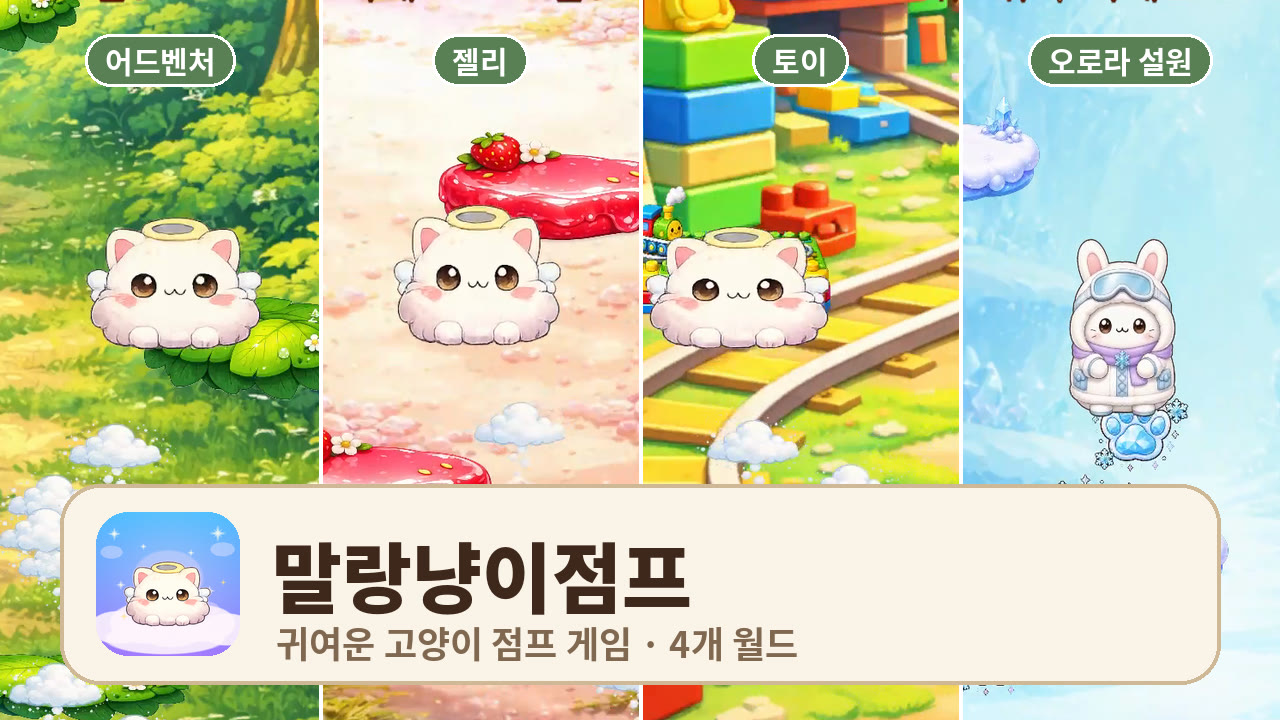
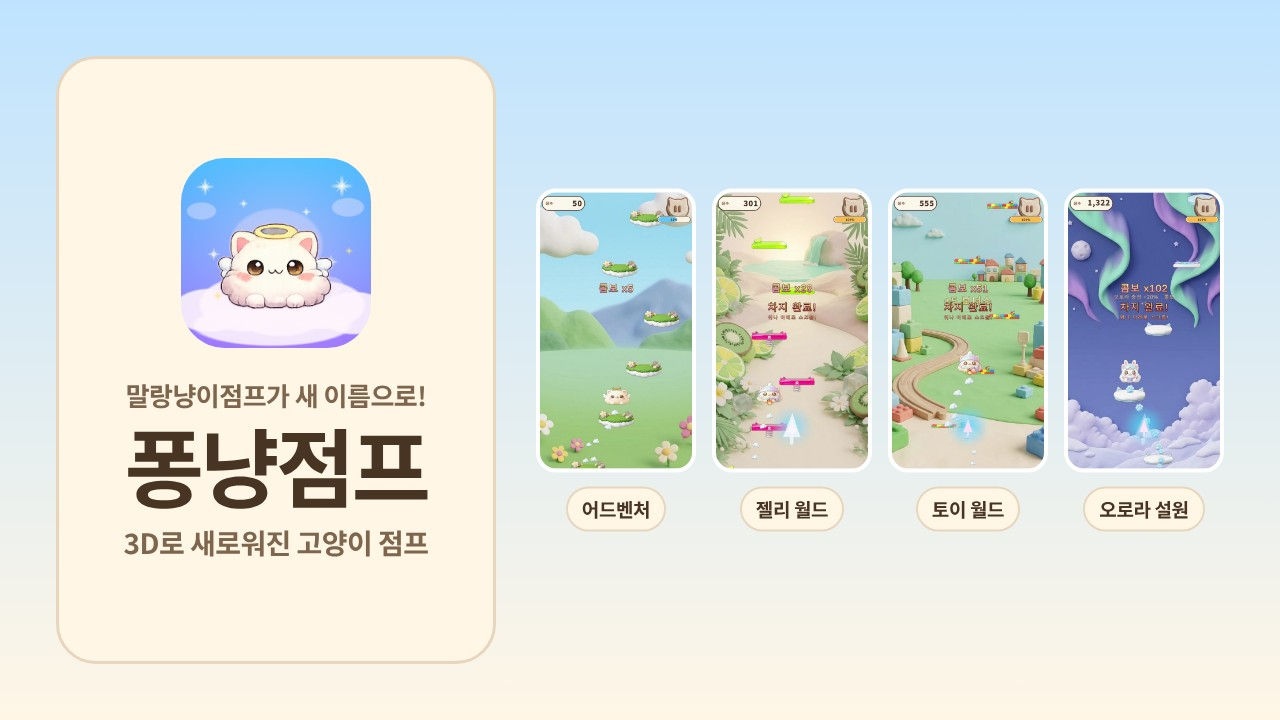
영상: 점프 영상 페이지를 새 퐁냥점프 3D 쇼츠로 교체
- ko/en 점프 영상 페이지: 유튜브 쇼츠 o-6-vdPpx-8, 21초, 새 자막·설명(구 말랑냥이점프 표기)
- VideoObject·동영상 사이트맵 갱신, 썸네일 교체

Claude-Session: https://claude.ai/code/session_019pTac98sTYAaayXRuKgjjD

diff --git a/ko/videos/malangnyang-jump/index.html b/ko/videos/malangnyang-jump/index.html
@@ -9,26 +9,26 @@
   </script>
   <meta name="viewport" content="width=device-width, initial-scale=1.0" />
   <title>귀여운 고양이 점프 게임 | 퐁냥점프 4개 월드 플레이 영상</title>
-  <meta name="description" content="귀여운 고양이 점프 게임 &#x27;퐁냥점프&#x27;의 20초 플레이 영상입니다. 좌우 터치만으로 구름 발판을 밟으며 하늘 높이 올라가고, 어드벤처 · 젤리 · 토이 · 오로라 설원 4개 월드에서 콤보를 이어 최고 기록에 도전합니다." />
+  <meta name="description" content="귀여운 고양이 점프 게임 &#x27;퐁냥점프&#x27;(구 말랑냥이점프)의 21초 플레이 영상입니다. 3D로 새로워진 고양이와 함께 좌우 터치만으로 구름 발판을 밟으며 하늘 높이 올라가고, 어드벤처 · 젤리 · 토이 · 오로라 설원 4개 월드에서 콤보를 이어 최고 기록에 도전합니다." />
   <link rel="canonical" href="https://pangchustudio.co.kr/ko/videos/malangnyang-jump/" />
   <link rel="alternate" hreflang="x-default" href="https://pangchustudio.co.kr/videos/malangnyang-jump/" />
   <link rel="alternate" hreflang="en" href="https://pangchustudio.co.kr/videos/malangnyang-jump/" />
   <link rel="alternate" hreflang="ko" href="https://pangchustudio.co.kr/ko/videos/malangnyang-jump/" />
   <meta property="og:type" content="video.other" />
   <meta property="og:title" content="귀여운 고양이 점프 게임 | 퐁냥점프 4개 월드 플레이 영상" />
-  <meta property="og:description" content="귀여운 고양이 점프 게임 &#x27;퐁냥점프&#x27;의 20초 플레이 영상입니다. 좌우 터치만으로 구름 발판을 밟으며 하늘 높이 올라가고, 어드벤처 · 젤리 · 토이 · 오로라 설원 4개 월드에서 콤보를 이어 최고 기록에 도전합니다." />
+  <meta property="og:description" content="귀여운 고양이 점프 게임 &#x27;퐁냥점프&#x27;(구 말랑냥이점프)의 21초 플레이 영상입니다. 3D로 새로워진 고양이와 함께 좌우 터치만으로 구름 발판을 밟으며 하늘 높이 올라가고, 어드벤처 · 젤리 · 토이 · 오로라 설원 4개 월드에서 콤보를 이어 최고 기록에 도전합니다." />
   <meta property="og:url" content="https://pangchustudio.co.kr/ko/videos/malangnyang-jump/" />
   <meta property="og:image" content="https://pangchustudio.co.kr/images/videos/malangnyang-jump-shorts.jpg" />
   <meta property="og:image:width" content="1280" />
   <meta property="og:image:height" content="720" />
-  <meta property="og:video" content="https://www.youtube.com/embed/fKoPnAqLzOQ" />
+  <meta property="og:video" content="https://www.youtube.com/embed/o-6-vdPpx-8" />
   <meta property="og:locale" content="ko_KR" />
   <meta property="og:site_name" content="PangChu Studio" />
   <meta name="twitter:card" content="player" />
   <meta name="twitter:title" content="귀여운 고양이 점프 게임 | 퐁냥점프 4개 월드 플레이 영상" />
-  <meta name="twitter:description" content="귀여운 고양이 점프 게임 &#x27;퐁냥점프&#x27;의 20초 플레이 영상입니다. 좌우 터치만으로 구름 발판을 밟으며 하늘 높이 올라가고, 어드벤처 · 젤리 · 토이 · 오로라 설원 4개 월드에서 콤보를 이어 최고 기록에 도전합니다." />
+  <meta name="twitter:description" content="귀여운 고양이 점프 게임 &#x27;퐁냥점프&#x27;(구 말랑냥이점프)의 21초 플레이 영상입니다. 3D로 새로워진 고양이와 함께 좌우 터치만으로 구름 발판을 밟으며 하늘 높이 올라가고, 어드벤처 · 젤리 · 토이 · 오로라 설원 4개 월드에서 콤보를 이어 최고 기록에 도전합니다." />
   <meta name="twitter:image" content="https://pangchustudio.co.kr/images/videos/malangnyang-jump-shorts.jpg" />
-  <meta name="twitter:player" content="https://www.youtube.com/embed/fKoPnAqLzOQ" />
+  <meta name="twitter:player" content="https://www.youtube.com/embed/o-6-vdPpx-8" />
   <meta name="twitter:player:width" content="360" />
   <meta name="twitter:player:height" content="640" />
   <meta name="theme-color" content="#7cc9ff" />
@@ -39,18 +39,18 @@
   "@context": "https://schema.org",
   "@type": "VideoObject",
   "name": "귀여운 고양이 점프 게임 | 퐁냥점프 4개 월드 플레이 영상",
-  "description": "귀여운 고양이 점프 게임 '퐁냥점프'의 20초 플레이 영상입니다. 좌우 터치만으로 구름 발판을 밟으며 하늘 높이 올라가고, 어드벤처 · 젤리 · 토이 · 오로라 설원 4개 월드에서 콤보를 이어 최고 기록에 도전합니다.",
+  "description": "귀여운 고양이 점프 게임 '퐁냥점프'(구 말랑냥이점프)의 21초 플레이 영상입니다. 3D로 새로워진 고양이와 함께 좌우 터치만으로 구름 발판을 밟으며 하늘 높이 올라가고, 어드벤처 · 젤리 · 토이 · 오로라 설원 4개 월드에서 콤보를 이어 최고 기록에 도전합니다.",
   "thumbnailUrl": [
     "https://pangchustudio.co.kr/images/videos/malangnyang-jump-shorts.jpg",
-    "https://i.ytimg.com/vi/fKoPnAqLzOQ/hqdefault.jpg"
+    "https://i.ytimg.com/vi/o-6-vdPpx-8/hqdefault.jpg"
   ],
-  "uploadDate": "2026-09-24T00:00:00+09:00",
-  "duration": "PT20S",
-  "embedUrl": "https://www.youtube.com/embed/fKoPnAqLzOQ",
+  "uploadDate": "2026-10-24T00:00:00+09:00",
+  "duration": "PT21S",
+  "embedUrl": "https://www.youtube.com/embed/o-6-vdPpx-8",
   "url": "https://pangchustudio.co.kr/ko/videos/malangnyang-jump/",
   "inLanguage": "ko",
   "isFamilyFriendly": true,
-  "transcript": "귀여운 고양이 점프 게임, 퐁냥점프 좌우 터치로 톡톡 점프! 말랑말랑 젤리 월드 알록달록 토이 월드 반짝반짝 오로라 설원 콤보를 이어 더 높이! 구글 플레이·앱 스토어에서 \"퐁냥점프\" 검색",
+  "transcript": "말랑냥이점프가 새 이름으로! 퐁냥점프 · 3D로 새로워진 고양이 점프 좌우 터치로 톡톡 점프! 말랑말랑 젤리 월드 알록달록 토이 월드 반짝반짝 오로라 설원 콤보를 이어 더 높이! 퐁냥점프 · 구글 플레이 · 앱 스토어에서 퐁냥점프 검색 · 구 말랑냥이점프",
   "publisher": {
     "@type": "Organization",
     "name": "PangChu Studio",
@@ -147,16 +147,16 @@
         <div>
           <div class="updates-eyebrow">PangChu Studio 영상</div>
           <h1 class="updates-title">퐁냥점프 플레이 영상</h1>
-          <p class="updates-subtitle">귀여운 고양이 점프 게임 &#x27;퐁냥점프&#x27;의 20초 플레이 영상입니다. 좌우 터치만으로 구름 발판을 밟으며 하늘 높이 올라가고, 어드벤처 · 젤리 · 토이 · 오로라 설원 4개 월드에서 콤보를 이어 최고 기록에 도전합니다.</p>
+          <p class="updates-subtitle">귀여운 고양이 점프 게임 &#x27;퐁냥점프&#x27;(구 말랑냥이점프)의 21초 플레이 영상입니다. 3D로 새로워진 고양이와 함께 좌우 터치만으로 구름 발판을 밟으며 하늘 높이 올라가고, 어드벤처 · 젤리 · 토이 · 오로라 설원 4개 월드에서 콤보를 이어 최고 기록에 도전합니다.</p>
         </div>
       </section>
 
       <div class="video-layout">
         <div class="video-media">
           <div class="video-frame">
-            <iframe src="https://www.youtube.com/embed/fKoPnAqLzOQ?rel=0" title="퐁냥점프 플레이 영상" allow="accelerometer; clipboard-write; encrypted-media; gyroscope; picture-in-picture; web-share" referrerpolicy="strict-origin-when-cross-origin" allowfullscreen></iframe>
+            <iframe src="https://www.youtube.com/embed/o-6-vdPpx-8?rel=0" title="퐁냥점프 플레이 영상" allow="accelerometer; clipboard-write; encrypted-media; gyroscope; picture-in-picture; web-share" referrerpolicy="strict-origin-when-cross-origin" allowfullscreen></iframe>
           </div>
-          <a class="video-yt" href="https://www.youtube.com/shorts/fKoPnAqLzOQ" target="_blank" rel="noopener">YouTube에서 보기 ↗</a>
+          <a class="video-yt" href="https://www.youtube.com/shorts/o-6-vdPpx-8" target="_blank" rel="noopener">YouTube에서 보기 ↗</a>
           <a class="video-yt" href="https://www.youtube.com/@PangChuStudio" target="_blank" rel="noopener">PangChu Studio 채널 ↗</a>
         </div>
         <div>
@@ -174,8 +174,8 @@
           </section>
           <section class="video-card">
             <h2>영상 자막</h2>
-            <p>영상에 나오는 문구를 시간 순서대로 옮겼습니다. 영상은 이름을 바꾸기 전에 만들어서 예전 이름인 말랑냥이점프로 나옵니다.</p>
-            <ol class="video-transcript"><li><time datetime="PT0S">0:00</time><span>귀여운 고양이 점프 게임, 퐁냥점프</span></li><li><time datetime="PT3S">0:03</time><span>좌우 터치로 톡톡 점프!</span></li><li><time datetime="PT6S">0:06</time><span>말랑말랑 젤리 월드</span></li><li><time datetime="PT8S">0:08</time><span>알록달록 토이 월드</span></li><li><time datetime="PT11S">0:11</time><span>반짝반짝 오로라 설원</span></li><li><time datetime="PT14S">0:14</time><span>콤보를 이어 더 높이!</span></li><li><time datetime="PT17S">0:17</time><span>구글 플레이·앱 스토어에서 &quot;퐁냥점프&quot; 검색</span></li></ol>
+            <p>영상에 나오는 문구를 시간 순서대로 옮겼습니다.</p>
+            <ol class="video-transcript"><li><time datetime="PT0S">0:00</time><span>말랑냥이점프가 새 이름으로! 퐁냥점프 · 3D로 새로워진 고양이 점프</span></li><li><time datetime="PT2S">0:02</time><span>좌우 터치로 톡톡 점프!</span></li><li><time datetime="PT5S">0:05</time><span>말랑말랑 젤리 월드</span></li><li><time datetime="PT8S">0:08</time><span>알록달록 토이 월드</span></li><li><time datetime="PT11S">0:11</time><span>반짝반짝 오로라 설원</span></li><li><time datetime="PT13S">0:13</time><span>콤보를 이어 더 높이!</span></li><li><time datetime="PT16S">0:16</time><span>퐁냥점프 · 구글 플레이 · 앱 스토어에서 퐁냥점프 검색 · 구 말랑냥이점프</span></li></ol>
           </section>
         </div>
       </div>

diff --git a/videos/malangnyang-jump/index.html b/videos/malangnyang-jump/index.html
@@ -9,26 +9,26 @@
   </script>
   <meta name="viewport" content="width=device-width, initial-scale=1.0" />
   <title>Cute Cat Jump Game | PongNyang Jump 4 Worlds Gameplay Video</title>
-  <meta name="description" content="A 20-second gameplay video of PongNyang Jump, a cute cat jumping game. Tap left and right to hop across soft clouds, keep your combo going and climb through 4 worlds: Adventure, Jelly World, Toy World and Aurora Snowfield." />
+  <meta name="description" content="A 21-second gameplay video of PongNyang Jump (formerly MalangNyang Jump), a cute cat jumping game now in 3D. Tap left and right to hop across soft clouds, keep your combo going and climb through 4 worlds: Adventure, Jelly World, Toy World and Aurora Snowfield." />
   <link rel="canonical" href="https://pangchustudio.co.kr/videos/malangnyang-jump/" />
   <link rel="alternate" hreflang="x-default" href="https://pangchustudio.co.kr/videos/malangnyang-jump/" />
   <link rel="alternate" hreflang="en" href="https://pangchustudio.co.kr/videos/malangnyang-jump/" />
   <link rel="alternate" hreflang="ko" href="https://pangchustudio.co.kr/ko/videos/malangnyang-jump/" />
   <meta property="og:type" content="video.other" />
   <meta property="og:title" content="Cute Cat Jump Game | PongNyang Jump 4 Worlds Gameplay Video" />
-  <meta property="og:description" content="A 20-second gameplay video of PongNyang Jump, a cute cat jumping game. Tap left and right to hop across soft clouds, keep your combo going and climb through 4 worlds: Adventure, Jelly World, Toy World and Aurora Snowfield." />
+  <meta property="og:description" content="A 21-second gameplay video of PongNyang Jump (formerly MalangNyang Jump), a cute cat jumping game now in 3D. Tap left and right to hop across soft clouds, keep your combo going and climb through 4 worlds: Adventure, Jelly World, Toy World and Aurora Snowfield." />
   <meta property="og:url" content="https://pangchustudio.co.kr/videos/malangnyang-jump/" />
   <meta property="og:image" content="https://pangchustudio.co.kr/images/videos/malangnyang-jump-shorts.jpg" />
   <meta property="og:image:width" content="1280" />
   <meta property="og:image:height" content="720" />
-  <meta property="og:video" content="https://www.youtube.com/embed/fKoPnAqLzOQ" />
+  <meta property="og:video" content="https://www.youtube.com/embed/o-6-vdPpx-8" />
   <meta property="og:locale" content="en_US" />
   <meta property="og:site_name" content="PangChu Studio" />
   <meta name="twitter:card" content="player" />
   <meta name="twitter:title" content="Cute Cat Jump Game | PongNyang Jump 4 Worlds Gameplay Video" />
-  <meta name="twitter:description" content="A 20-second gameplay video of PongNyang Jump, a cute cat jumping game. Tap left and right to hop across soft clouds, keep your combo going and climb through 4 worlds: Adventure, Jelly World, Toy World and Aurora Snowfield." />
+  <meta name="twitter:description" content="A 21-second gameplay video of PongNyang Jump (formerly MalangNyang Jump), a cute cat jumping game now in 3D. Tap left and right to hop across soft clouds, keep your combo going and climb through 4 worlds: Adventure, Jelly World, Toy World and Aurora Snowfield." />
   <meta name="twitter:image" content="https://pangchustudio.co.kr/images/videos/malangnyang-jump-shorts.jpg" />
-  <meta name="twitter:player" content="https://www.youtube.com/embed/fKoPnAqLzOQ" />
+  <meta name="twitter:player" content="https://www.youtube.com/embed/o-6-vdPpx-8" />
   <meta name="twitter:player:width" content="360" />
   <meta name="twitter:player:height" content="640" />
   <meta name="theme-color" content="#7cc9ff" />
@@ -39,18 +39,18 @@
   "@context": "https://schema.org",
   "@type": "VideoObject",
   "name": "Cute Cat Jump Game | PongNyang Jump 4 Worlds Gameplay Video",
-  "description": "A 20-second gameplay video of PongNyang Jump, a cute cat jumping game. Tap left and right to hop across soft clouds, keep your combo going and climb through 4 worlds: Adventure, Jelly World, Toy World and Aurora Snowfield.",
+  "description": "A 21-second gameplay video of PongNyang Jump (formerly MalangNyang Jump), a cute cat jumping game now in 3D. Tap left and right to hop across soft clouds, keep your combo going and climb through 4 worlds: Adventure, Jelly World, Toy World and Aurora Snowfield.",
   "thumbnailUrl": [
     "https://pangchustudio.co.kr/images/videos/malangnyang-jump-shorts.jpg",
-    "https://i.ytimg.com/vi/fKoPnAqLzOQ/hqdefault.jpg"
+    "https://i.ytimg.com/vi/o-6-vdPpx-8/hqdefault.jpg"
   ],
-  "uploadDate": "2026-09-24T00:00:00+09:00",
-  "duration": "PT20S",
-  "embedUrl": "https://www.youtube.com/embed/fKoPnAqLzOQ",
+  "uploadDate": "2026-10-24T00:00:00+09:00",
+  "duration": "PT21S",
+  "embedUrl": "https://www.youtube.com/embed/o-6-vdPpx-8",
   "url": "https://pangchustudio.co.kr/videos/malangnyang-jump/",
   "inLanguage": "ko",
   "isFamilyFriendly": true,
-  "transcript": "A cute cat jumping game: PongNyang Jump Tap left and right to jump! Squishy Jelly World Colorful Toy World Sparkling Aurora Snowfield Keep the combo going and jump higher! Search \"PongNyang Jump\" on Google Play and the App Store",
+  "transcript": "New name for MalangNyang Jump! PongNyang Jump · the cute cat jump, now in 3D Tap left and right to jump! Squishy Jelly World Colorful Toy World Sparkling Aurora Snowfield Keep the combo going and jump higher! PongNyang Jump · Search \"PongNyang Jump\" on Google Play and the App Store · formerly MalangNyang Jump",
   "publisher": {
     "@type": "Organization",
     "name": "PangChu Studio",
@@ -147,16 +147,16 @@
         <div>
           <div class="updates-eyebrow">PangChu Studio Video</div>
           <h1 class="updates-title">PongNyang Jump Gameplay Video</h1>
-          <p class="updates-subtitle">A 20-second gameplay video of PongNyang Jump, a cute cat jumping game. Tap left and right to hop across soft clouds, keep your combo going and climb through 4 worlds: Adventure, Jelly World, Toy World and Aurora Snowfield.</p>
+          <p class="updates-subtitle">A 21-second gameplay video of PongNyang Jump (formerly MalangNyang Jump), a cute cat jumping game now in 3D. Tap left and right to hop across soft clouds, keep your combo going and climb through 4 worlds: Adventure, Jelly World, Toy World and Aurora Snowfield.</p>
         </div>
       </section>
 
       <div class="video-layout">
         <div class="video-media">
           <div class="video-frame">
-            <iframe src="https://www.youtube.com/embed/fKoPnAqLzOQ?rel=0" title="PongNyang Jump gameplay video" allow="accelerometer; clipboard-write; encrypted-media; gyroscope; picture-in-picture; web-share" referrerpolicy="strict-origin-when-cross-origin" allowfullscreen></iframe>
+            <iframe src="https://www.youtube.com/embed/o-6-vdPpx-8?rel=0" title="PongNyang Jump gameplay video" allow="accelerometer; clipboard-write; encrypted-media; gyroscope; picture-in-picture; web-share" referrerpolicy="strict-origin-when-cross-origin" allowfullscreen></iframe>
           </div>
-          <a class="video-yt" href="https://www.youtube.com/shorts/fKoPnAqLzOQ" target="_blank" rel="noopener">Watch on YouTube ↗</a>
+          <a class="video-yt" href="https://www.youtube.com/shorts/o-6-vdPpx-8" target="_blank" rel="noopener">Watch on YouTube ↗</a>
           <a class="video-yt" href="https://www.youtube.com/@PangChuStudio" target="_blank" rel="noopener">PangChu Studio channel ↗</a>
         </div>
         <div>
@@ -174,8 +174,8 @@
           </section>
           <section class="video-card">
             <h2>Captions</h2>
-            <p>On-screen text from the video, in order. The video was made before the rename, so it shows the former name, MalangNyang Jump.</p>
-            <ol class="video-transcript"><li><time datetime="PT0S">0:00</time><span>A cute cat jumping game: PongNyang Jump</span></li><li><time datetime="PT3S">0:03</time><span>Tap left and right to jump!</span></li><li><time datetime="PT6S">0:06</time><span>Squishy Jelly World</span></li><li><time datetime="PT8S">0:08</time><span>Colorful Toy World</span></li><li><time datetime="PT11S">0:11</time><span>Sparkling Aurora Snowfield</span></li><li><time datetime="PT14S">0:14</time><span>Keep the combo going and jump higher!</span></li><li><time datetime="PT17S">0:17</time><span>Search &quot;PongNyang Jump&quot; on Google Play and the App Store</span></li></ol>
+            <p>On-screen text from the video, in order.</p>
+            <ol class="video-transcript"><li><time datetime="PT0S">0:00</time><span>New name for MalangNyang Jump! PongNyang Jump · the cute cat jump, now in 3D</span></li><li><time datetime="PT2S">0:02</time><span>Tap left and right to jump!</span></li><li><time datetime="PT5S">0:05</time><span>Squishy Jelly World</span></li><li><time datetime="PT8S">0:08</time><span>Colorful Toy World</span></li><li><time datetime="PT11S">0:11</time><span>Sparkling Aurora Snowfield</span></li><li><time datetime="PT13S">0:13</time><span>Keep the combo going and jump higher!</span></li><li><time datetime="PT16S">0:16</time><span>PongNyang Jump · Search &quot;PongNyang Jump&quot; on Google Play and the App Store · formerly MalangNyang Jump</span></li></ol>
           </section>
         </div>
       </div>
